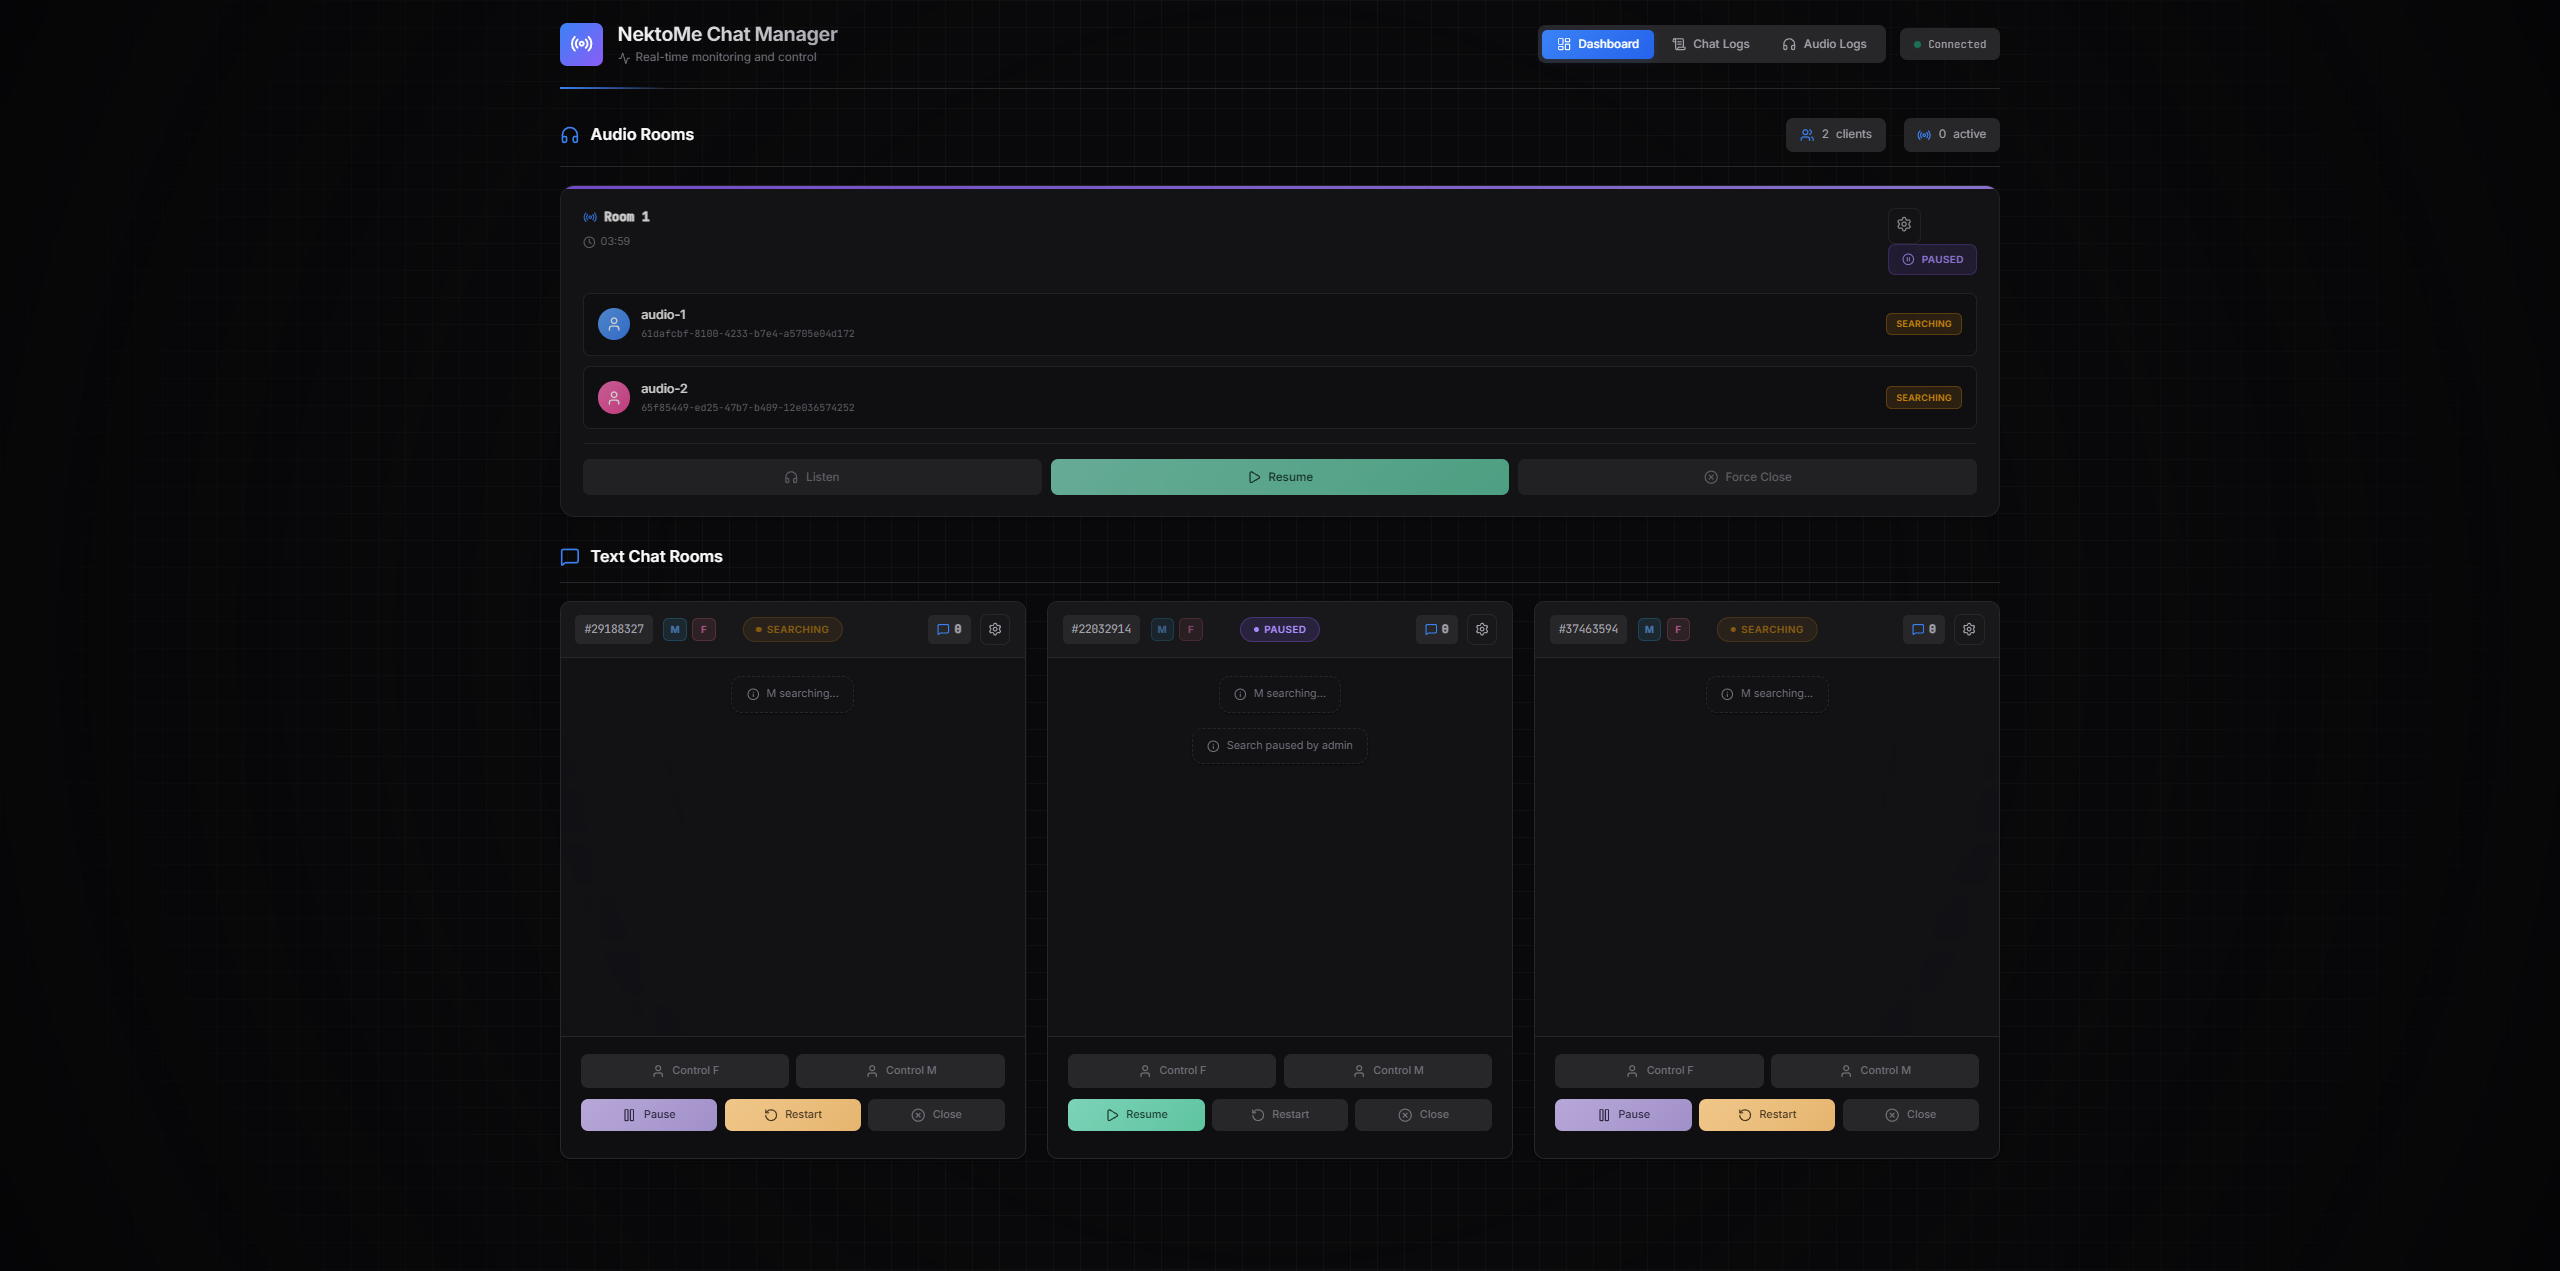
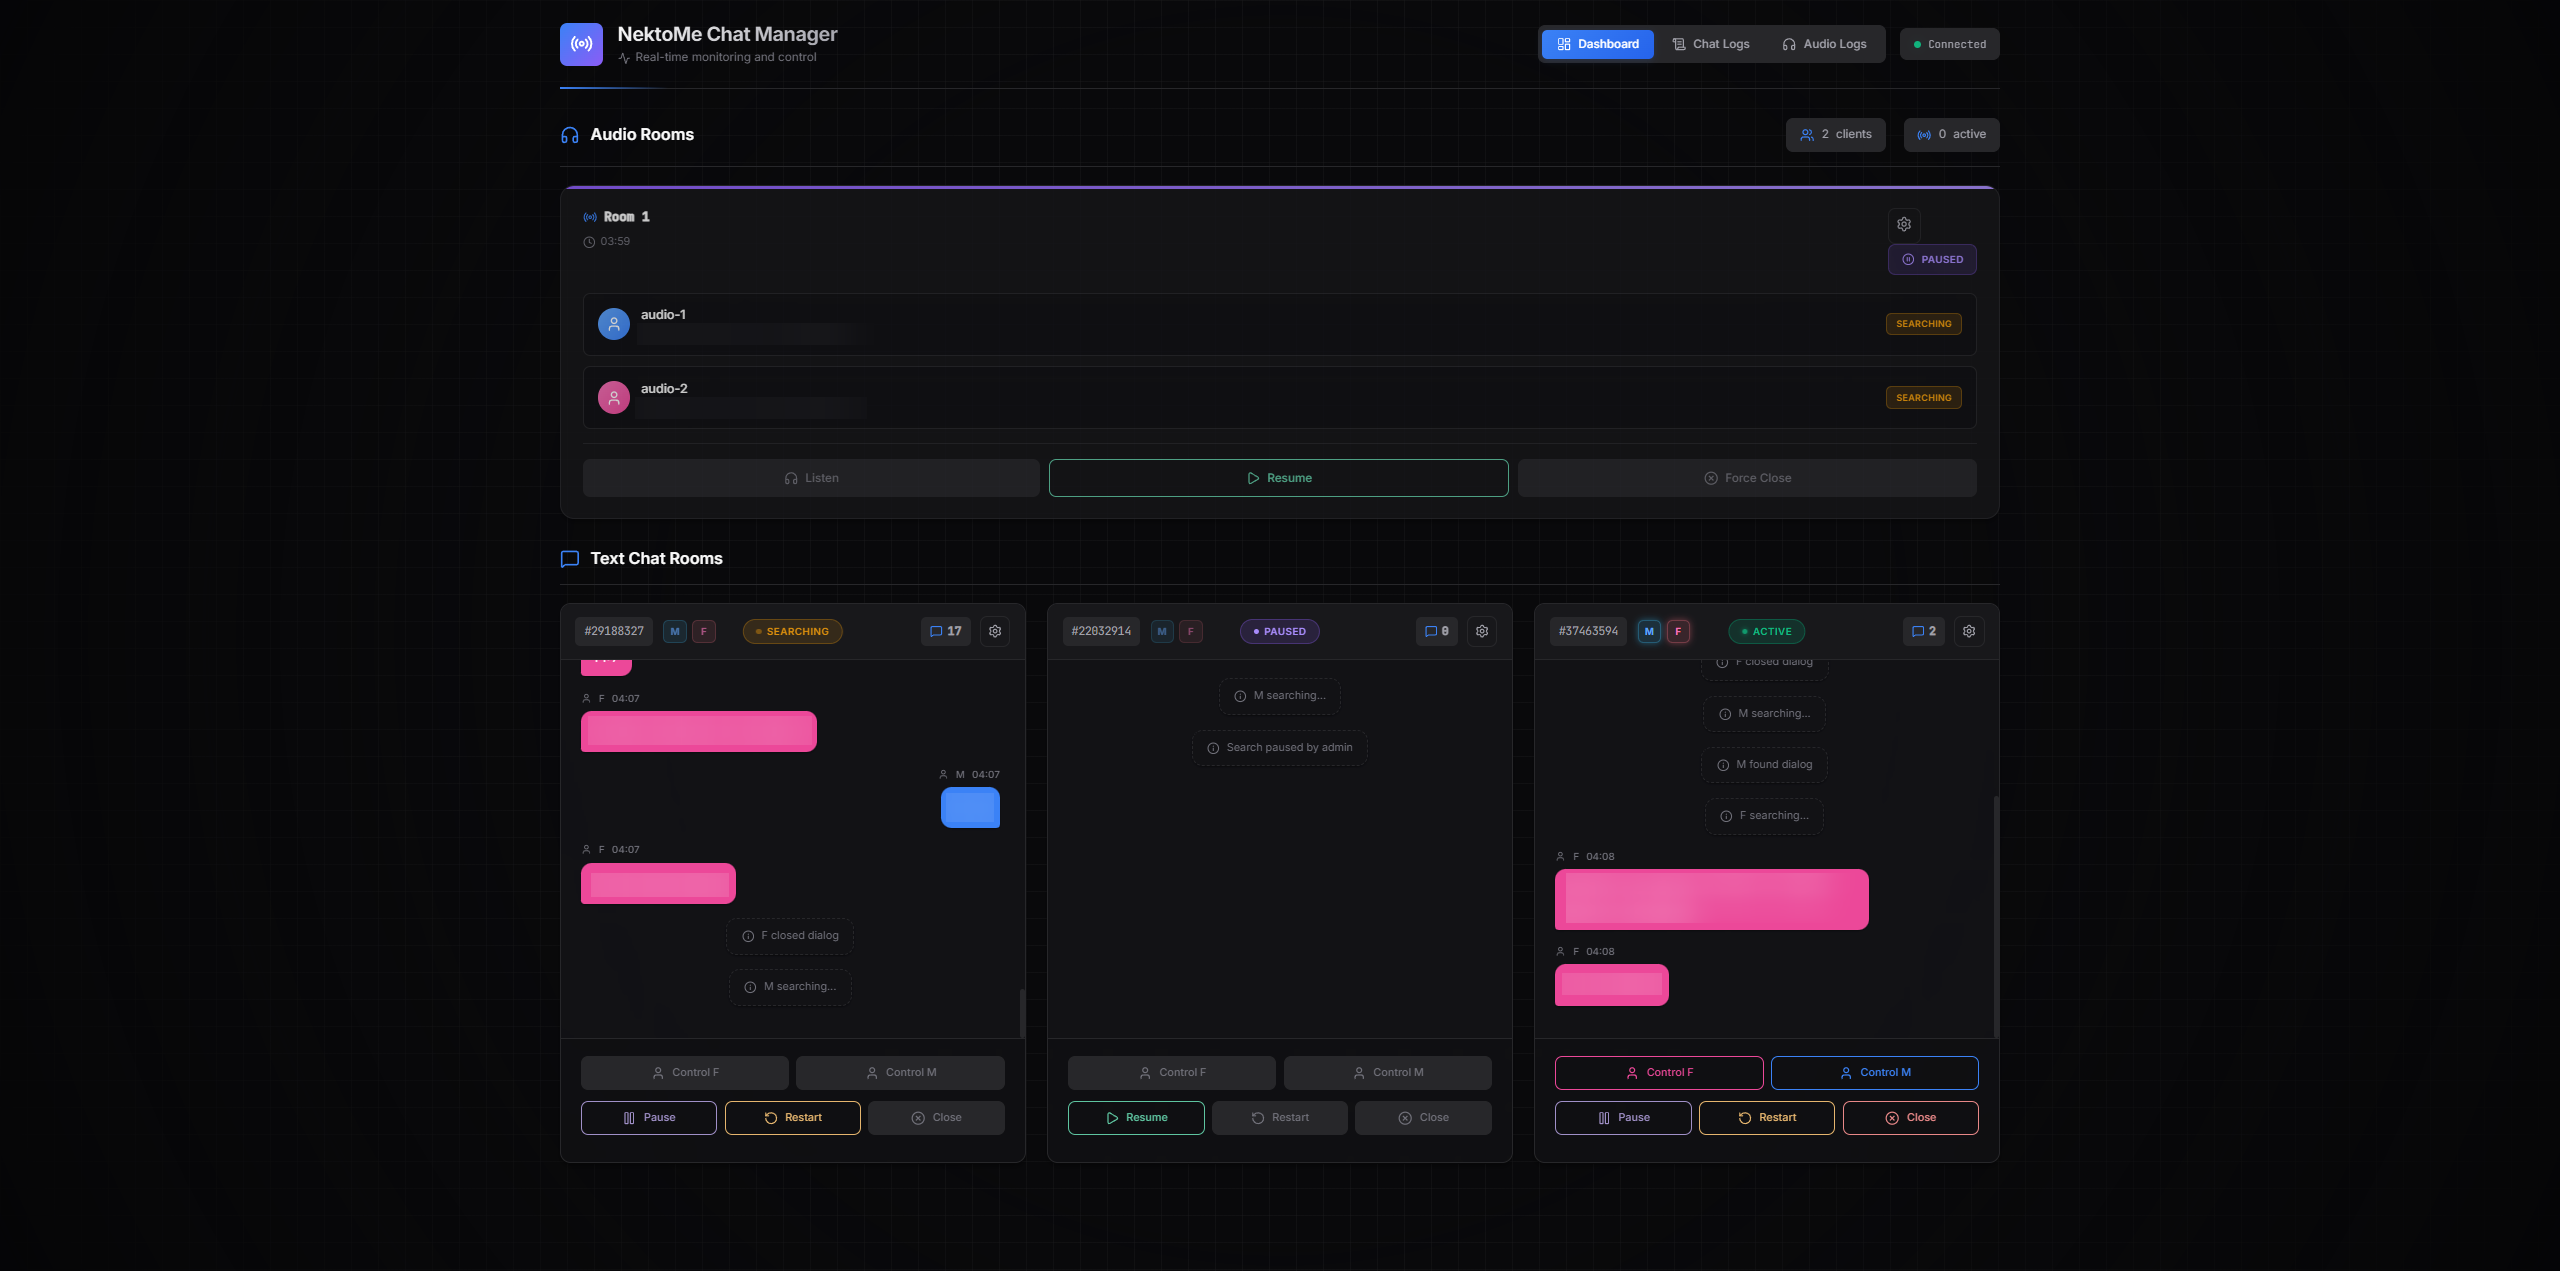
feat: Add dashboard and chat logs screenshots and update README.

diff --git a/README.md b/README.md
@@ -61,7 +61,13 @@
 
 ### 🖼 Интерфейс
 
+#### Dashboard (Управление ботами)
+Главная панель управления мульти-клиентами. Показывает статус всех ботов, активные диалоги и позволяет брать управление в свои руки.
 ![Dashboard Preview](assets/dashboard.png)
+
+#### Chat Logs (История диалогов)
+Удобный просмотрщик сохраненных логов. Поддерживает поиск по тексту, фильтрацию по дате и полу.
+![Chat Logs Preview](assets/chat_logs.png)
 
 ### 🚀 Быстрый старт
 
